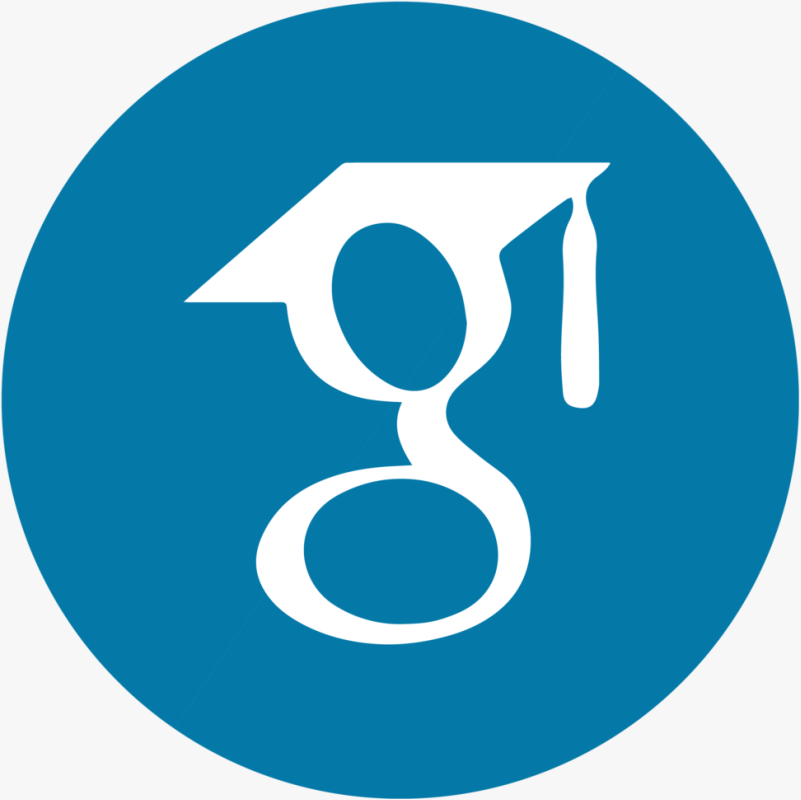
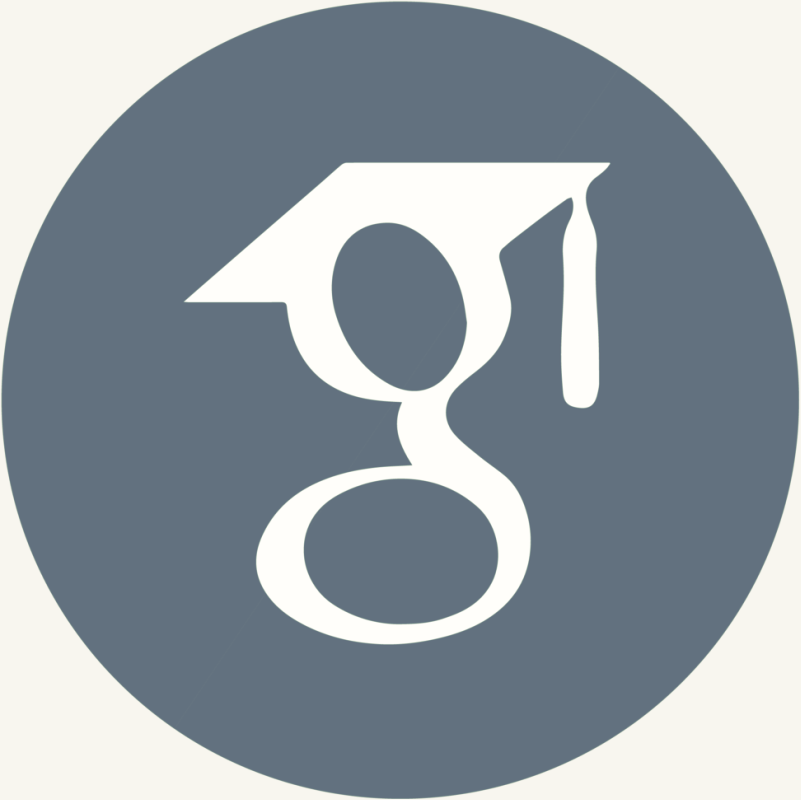
updating colour scheme, pubs and ad

diff --git a/phd_position.html b/phd_position.html
@@ -37,7 +37,15 @@
 
 
     <h3>Project Outline</h3>
-    <p>Are you interested in the intersection of natural language processing and cognitive science, specifically large language models (LLMs) and natural language generation (NLG)?  We are looking for a PhD student to work on using LLMs to generate more human-like texts that are <i>adaptive, context-specific</i> and <i>audience-aware</i>. Taking inspiration from the fields of psycholinguistics and cognitive science, this project aims to explore, evaluate and extend the potential of large language models (LLMs) to generate language that is appropriate for an interactive setting such as dialogue. Adaptive NLG can lead to more <i>inclusive, personalised</i>, and <i>appealing</i> language, essential components of a number of downstream applications. Target applications for evaluating such adaptive language will involve language produced by humans and models in collaborative communicative settings. The output of this PhD project should advance the state of the art in NLG systems, in terms of techniques for evaluation, understanding of LLMs, or improved generation - thus allowing systems to adaptively interact in a manner that is sensitive to linguistic contextual cues. <i>Applicants will be expected to work on a topic within the area outlined above, aligned with the research interests of Dr Arabella Sinclair.</i></p>
+    <p>Are you interested in the intersection of natural language processing, psycholinguistics and cognitive science, specifically as it applies to large language models (LLMs) and natural language generation (NLG)?
+      <br>
+      This project is recruiting a PhD student to research how LLMs can produce more human-like language that is adaptive, context-specific, and audience-aware.
+      <br>
+      Current dialogic interaction systems fall short when it comes to nuanced, pragmatic language understanding. Taking inspiration from the fields of psycholinguistics and cognitive science, this project aims to explore, evaluate and extend the potential of LLMs to generate language that is appropriate for an interactive setting such as dialogue.
+<br>
+      Adaptive NLG can lead to more inclusive, personalised, and appealing language; essential components of a number of downstream applications, such as in educational settings, or as creative tools. Evaluating such adaptive language will involve analysis of language produced by humans, compared to humans and models in collaborative communicative settings.
+<br><br>
+      The output of this PhD project should advance the state of the art in NLG systems, in terms of techniques for evaluation, understanding of LLMs, and/or improved generation techniques - thus allowing systems to adaptively interact in a manner that is sensitive to linguistic contextual cues. Applicants will be expected to work on a topic within the area outlined above, aligned with the research interests of  Dr Arabella Sinclair.</i></p>
 
     <h3>Supervision</h3>
     <p>Typically, you will meet with your primary supervisor on a weekly basis, at least until you reach the stage of writing up your thesis, or during periods where an internship is undertaken.
@@ -55,10 +63,10 @@
     <p>Applications from candidates belonging to demographics typically underrepresented in AI are particularly encouraged to apply.</p>
 
     <h3>Funding</h3>
-    <p>This is a studentship open to both home and overseas students funded by the School of Natural and Computing Sciences. Funding will cover tuition fees for 36 months (3 years) and a stipend of £17,668 paid monthly, in arrears. The start date is to be agreed with the supervisor and we reserve the right to remove the advert if a suitable candidate is found before the advertised closing date</p>
+    <p>This is a studentship open to both home and overseas students funded by the School of Natural and Computing Sciences. Funding will cover tuition fees for 36 months (3 years), paid monthly in arrears. The start date is to be agreed with the supervisor and we reserve the right to remove the advert if a suitable candidate is found before the advertised closing date</p>
 
     <h3>Application Process</h3>
-    <p>The official application process is outlined on the advert on <a href="https://www.findaphd.com/phds/project/adaptive-natural-language-generation/?p149511#">find a phd</a>. Please get in contact with me if you have any questions about this. Your cover letter should act as a demonstration that a) you are able to write well and concicely, b) you are interested in this project specifically rather than some other topic c) that you consider yourself a good fit with the project and supervision team.
+    <p>The official application process is outlined on the advert on <a href="https://www.findaphd.com/phds/project/adaptive-natural-language-generation/?p149511#">find a phd</a>. Please get in contact with me if you have any questions about this. Your cover letter should act as a demonstration that a) you are able to write well and concicely, b) you are interested in this project specifically rather than some other topic c) that you consider yourself a good fit with the project and supervision team. The Project proposal is also a demonstration that you are a) keen enough on this area to read some related papers (I suggest starting from my publications and projects to see whether they are interesting then starting from there) and b) able to highlight some initial starting points to your research in the first year or so of the project that you are most interested in (this is very much allowed to change).
     </p>
 
   </div>

diff --git a/index.html b/index.html
@@ -20,7 +20,7 @@
 
 <div class="row">
   <div class="side">
-    <img src="figs/myface.png" alt="Avatar">
+    <img src="figs/ArabellaSinclair.png" alt="Avatar" width='140'>
     <h1>Arabella Jane Sinclair </h1>
     <h3> Lecturer, Computer Science</h3>
     <h5> University of Aberdeen </h5>
@@ -31,7 +31,7 @@
 
   </div>
   <div class="main">
-    <h2>About me</h2>
+    <!-- <h2>About me</h2> -->
     <p>I am a Lecturer (assistant professor) in the <a href="https://www.abdn.ac.uk/ncs/departments/computing-science/research-157.php"> Department of Computer Science</a> at the University of Aberdeen. My work explores speaker adaptation in dialogue, specifically how speakers align to one another as they (try to) find common ground.
 
       I am very interested in exploring how humans adapt to one another as they interact or communicate. To that end, my work involves analysing human properties of language in a dialogue setting, analysing whether machine generated text contains human-like linguistic properties, and, more recently, whether modern language models exhibit similar patterns to humans when exposed to certain linguistic phenomena.
@@ -41,8 +41,14 @@
       I am interested in applying my work to collaborative and educational settings, as well as exploring more general communicative properties of language.
     My research interests include <i>Natural Language Processing, Computational Linguistics, Cognitive Science and Education</i>.</p>
 
+    <p>I am a member of the research groups <a href="https://www.abdn.ac.uk/ncs/departments/computing-science/natural-language-generation-187.php">Computational linguistics</a>,  <a href="https://www.abdn.ac.uk/ncs/departments/computing-science/humancentred-computing-1503.php">Human-Centred Computing</a> and <a href="https://www.abdn.ac.uk/ncs/departments/computing-science/machine-learning-1460.php">Machine Learning</a> within the Department of Computing Science in the School of Natural and Computing Sciences. Within <a href="https://the-context-lab.github.io/">my own lab</a>, I explore all three areas combined, taking an interdisciplinary approach as much as possible.</p>
+
+
+
+
+
       <h3>Open positions</h3>
-      <p style="border-width:3px; border-style:solid; border-color:#287EC7; padding: 1em;"><b>PhD position: </b>I am excited to announce I have a fully funded PhD position open to applicants who want to work with me on adaptive, audience-aware NLG. <a href="phd_position.html">Full Project Description</a></p>
+      <p style="border-width:3px; border-style:solid; border-color:#729542; padding: 1em;"><b>PhD position: </b>I am excited to announce I have a fully funded PhD position open to applicants who want to work with me (and join my <a href="https://the-context-lab.github.io/">lab</a>) on adaptive, audience-aware NLG. <a href="phd_position.html">Full Project Description</a></p>
     <!-- Page content here<p>I previously worked as a postdoc at the <a href="http://www.illc.uva.nl">Institute for Logic, Language and Computation</a> (ILLC), UvA. I was a member of the <a href="https://staff.fnwi.uva.nl/r.fernandezrovira/dialogue-group.php">Dialogue Modelling Group</a>, working on the DREAM (Distributed dynamic Representations for diAlogue Management) project under <a href="https://staff.fnwi.uva.nl/r.fernandezrovira/">Raquel Fernandez</a>.</p>
     -->
 

diff --git a/teaching.html b/teaching.html
@@ -20,7 +20,7 @@
 
 <div class="row">
   <div class="side">
-    <img src="figs/myface.png" alt="Avatar">
+    <img src="figs/ArabellaSinclair.png" alt="Avatar" width='140'>
     <h1>Arabella Jane Sinclair </h1>
     <h3> Lecturer, Computer Science</h3>
     <h5> University of Aberdeen </h5>
@@ -41,6 +41,26 @@
 
     <h3>Past projects</h3>
     <p><em>University of Aberdeen</em></p>
+
+      <p>2023</p>
+          <ul>
+            <li>
+              Exploring Bilingual vs. Language Learner Code Switching Patterns in Dialogue, Leah Hughes, Bachelor's Thesis, BSc Computing Science 2023.
+            </li>
+            <li>
+              Interpreting Transformer Attention During Next Utterance Dialogue Generation from Human Contexts, Aron Molnar, Bachelor's Thesis, BSc Computing Science 2023.
+            </li>
+            <li>
+              Towards Evaluating Creativity in Language, Matey Krastev, Bachelor's Thesis, BSc Computing Science 2023.
+            </li>
+            <li>
+              Analysing Student-Tutor Dialogues during Second Language Learning, Nandan Grover, Master's Thesis, MSc AI, 2023.
+            </li>
+            <li>
+              Analysing Emoji Use in Twitter Conversations, Anahita Kanade, Master's Thesis, MSc AI, 2023.
+            </li>
+          </ul>
+      <p>2022</p>
           <ul>
             <li>A Creative Writing Collaborative Tool using Large Language Models. Rahul Baburajan, Master's Thesis, MSc AI, 2022.
             </li>
@@ -98,7 +118,7 @@
 
     <h2> Prospective students</h2>
     <h3>Phd Position</h3>
-    <p>I am currently advertising for a PhD student (deadline January 2023) in the Department of Computer Science at the University of Aberdeen. The project will fall within the areas of Dialogue modelling and Computational Lingusitics with potential for projects in interpretability and evaluation. If you are interested in these areas and in working with me, please get in contact via email: arabella dot sinclair at abdn dot ac dot uk.</p>
+    <p>I am currently advertising for a PhD student (deadline November 4th 2023) in the Department of Computer Science at the University of Aberdeen. The project will fall within the areas of Dialogue modelling and Computational Lingusitics with potential for projects in interpretability and evaluation. If you are interested in these areas and in working with me, please get in contact via email: arabella dot sinclair at abdn dot ac dot uk.</p>
     <a href="phd_position.html">Full Project Description</a>
     <h3>Useful Resources</h3>
     <a href="useful_resources.html">working list</a>

diff --git a/projects.html b/projects.html
@@ -20,7 +20,7 @@
 
 <div class="row">
   <div class="side">
-    <img src="figs/myface.png" alt="Avatar">
+    <img src="figs/ArabellaSinclair.png" alt="Avatar" width='140'>
     <h1>Arabella Jane Sinclair </h1>
     <h3> Lecturer, Computer Science</h3>
     <h5> University of Aberdeen </h5>
@@ -33,6 +33,18 @@
   <div class="main">
     <h2>Projects</h2>
 
+    <p> Please see our <a href="https://the-context-lab.github.io/">lab website</a> for more ongoing projects and areas of interest </p>
+
+<!-- Structural priming -->
+    <h3><a href="https://www.findaphd.com/phds/project/eastbio-priming-in-humans-and-language-models/?p161659">Structural Priming: comparing language models and the human mind</a></h3>
+      <p>This is a collaborative project between the Computer Science and Psychology Departments in the University of Aberdeen. The key purpose of this study is to compare syntactic priming effects generated by human participants to that in AI systems that model language processing (e.g. Large Language Models - LLMs). We plan to understand the extent to which LLMs behave similarly to humans when comprehending structure in language, and whether resulting activation and prediction patterns are similar. Project collaborators: Dr Arabella Sinclair, Dr Agnieszka Konopka, Dr Anastasia Klimovich-Gray, Dr Nika Adamian. Funders: Aberdeen University, Internal Funding to Pump-Prime Research and Research Networks to all collaborators.</p>
+
+      <h4><em><b>Related open phd position</b></em> </h4>
+      <p>If you are interested in getting involved with this project, we have funding for a student in this topic, more details <a href="https://www.findaphd.com/phds/project/eastbio-priming-in-humans-and-language-models/?p161659">here</a> and we will get in touch with you.</p>
+
+      <hr>
+
+<!-- creative ai -->
     <h3><a href="https://creativeinformatics.org/research/announcing-the-latest-ci-small-research-grant-holders/">Collaborative Storytelling with an AI Author</a></h3>
       <p>I am really excited that <a href="https://homepages.inf.ed.ac.uk/clucas2/">Chris</a> and I have been awarded a grant to research how creative writers adapt and interact with an AI author. More news to come as we start the project in spring 2022.</p
 

diff --git a/contact.html b/contact.html
@@ -20,7 +20,7 @@
 
 <div class="row">
   <div class="side">
-    <img src="figs/myface.png" alt="Avatar">
+    <img src="figs/ArabellaSinclair.png" alt="Avatar" width='140'>
     <h1>Arabella Jane Sinclair </h1>
     <h3> Lecturer, Computer Science</h3>
     <h5> University of Aberdeen </h5>
@@ -34,6 +34,11 @@
 
       <h2>Contact</h2>
       I am based in the <a href="https://www.abdn.ac.uk/ncs/departments/computing-science/research-157.php"> Department of Computer Science</a> at the University of Aberdeen.
+
+
+
+      <h3>The Context Lab</h3>
+      To see more about ongoing work and projects please take a look at our <a href="https://the-context-lab.github.io/">lab website</a> at the University of Aberdeen.
 
   </div>
 </div>

diff --git a/jan.css b/jan.css
@@ -21,7 +21,8 @@ font-size: 150%;
 }
 
 .topnav {
-  background-color: #092434;/*#406378;*/
+  background-color: #95A87A;
+  /* #DBCFBB;/*#406378;*/
   overflow: hidden;
 }
 
@@ -37,16 +38,18 @@ font-size: 150%;
 
 /* Change the color of links on hover */
 .topnav a:hover {
-  background-color: #0D3349;/*#4C7791;*/
+  background-color: #9BB081; /*#0D3349;#4C7791;*/
   color: white;
 }
 
 /* Add a color to the active/current link */
 .topnav a.active {
-  background-color: #0D3349;/*#4C7791;*/
+  background-color: #95A87A; /*#0D3349; #4C7791;*/
   color: white;
 }
 
+/*  #C18429*/
+/* #DBCFBB */
 
 /* Ensure proper sizing */
 * {

diff --git a/about.html b/about.html
@@ -20,7 +20,7 @@
 
 <div class="row">
   <div class="side">
-    <img src="figs/myface.png" alt="Avatar">
+    <img src="figs/ArabellaSinclair.png" alt="Avatar" width='140'>
     <h1>Arabella Jane Sinclair </h1>
     <h3> Lecturer, Computer Science</h3>
     <h5> University of Aberdeen </h5>

diff --git a/thesis_projects.html b/thesis_projects.html
@@ -19,7 +19,7 @@
 
 <div class="row">
   <div class="side">
-    <img src="figs/myface.png" alt="Avatar">
+    <img src="figs/ArabellaSinclair.png" alt="Avatar" width='140'>
     <h1>Arabella Jane Sinclair </h1>
     <h3> Lecturer, Computer Science</h3>
     <h5> University of Aberdeen </h5>

diff --git a/useful_resources.html b/useful_resources.html
@@ -19,7 +19,7 @@
 
 <div class="row">
   <div class="side">
-    <img src="figs/myface.png" alt="Avatar">
+    <img src="figs/ArabellaSinclair.png" alt="Avatar" width='140'>
     <h1>Arabella Jane Sinclair </h1>
     <h3> Lecturer, Computer Science</h3>
     <h5> University of Aberdeen </h5>
